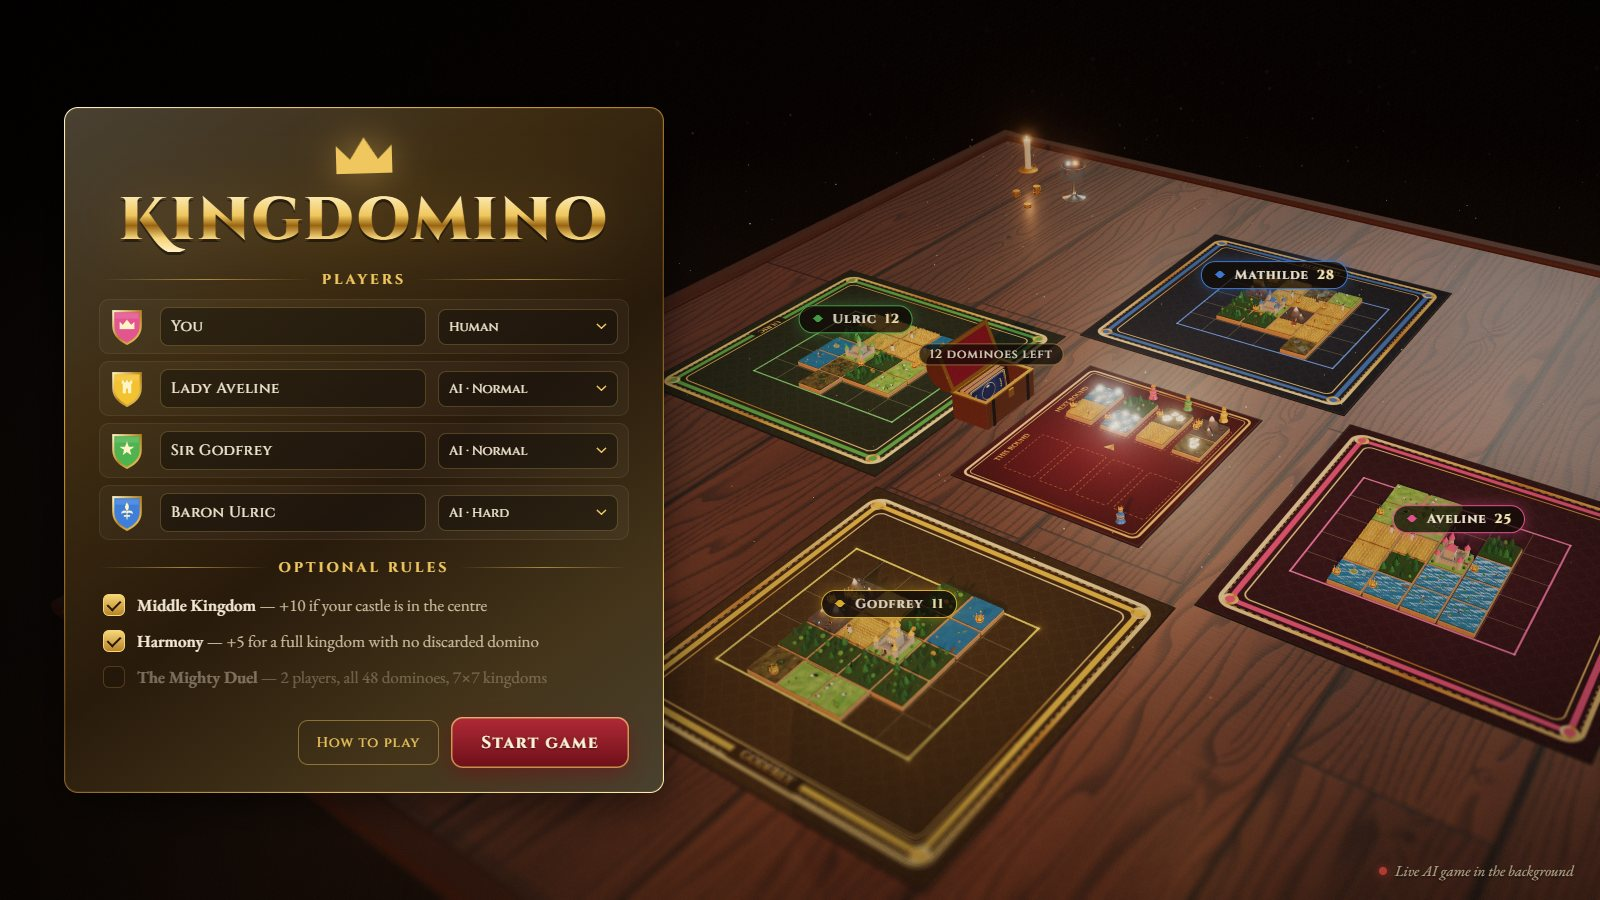
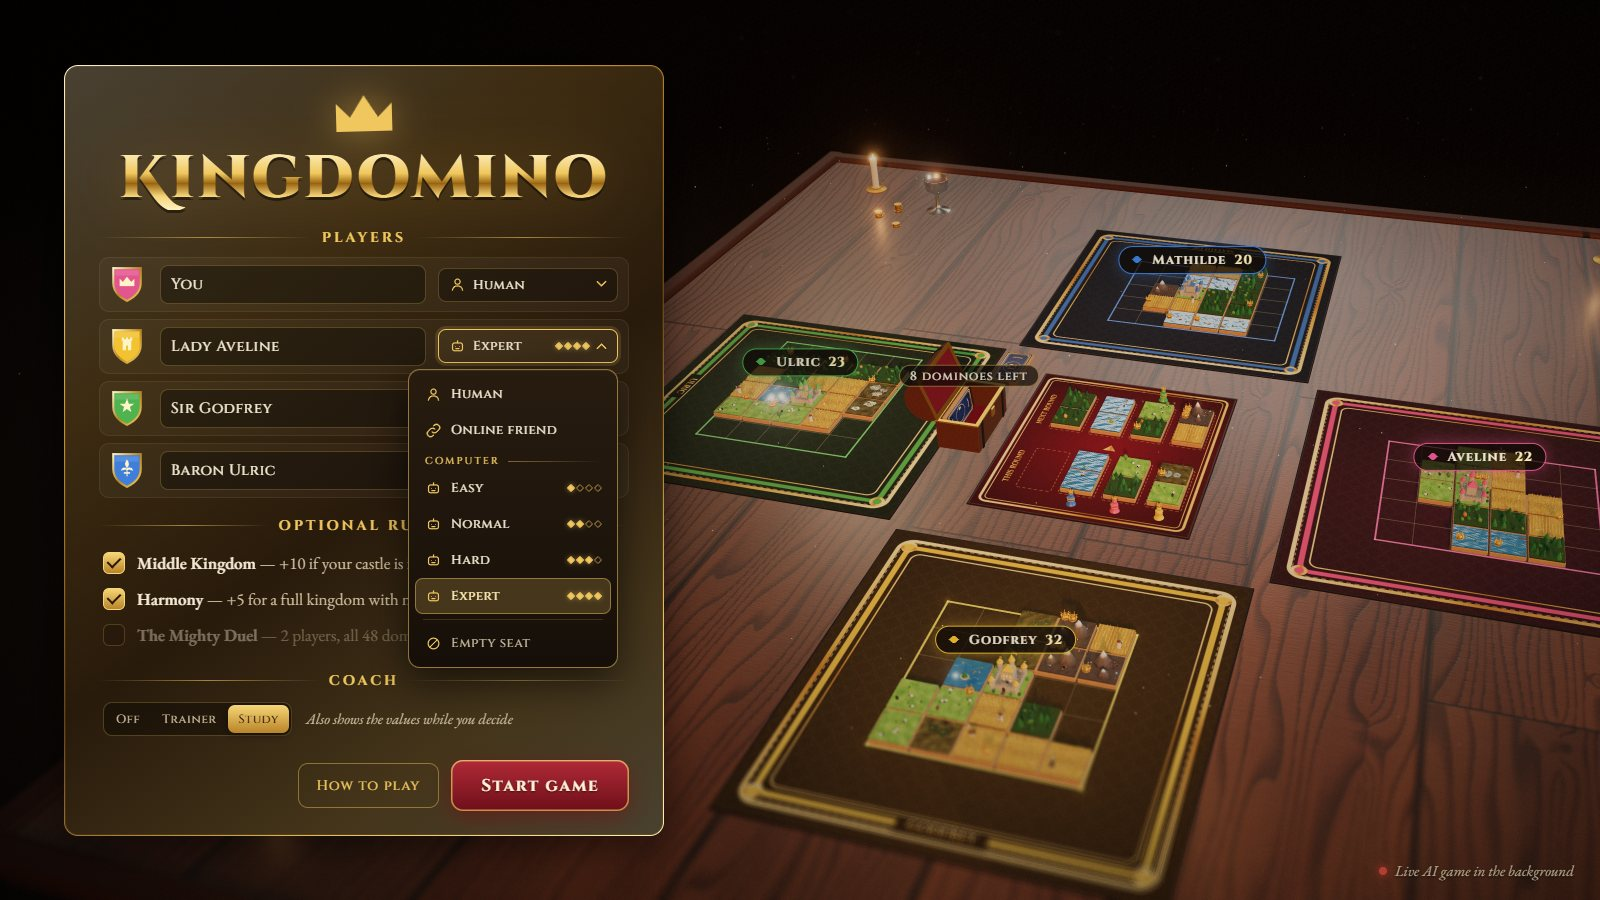
Put the Expert AI and the coach up front in the README and link previews
README:
- the tagline and badges now lead with the Expert AI and the coach
- a new section right under the intro, "Take on the Expert, learn from
  the coach", with four new screenshots: study mode's value pills and
  hover map, a grade badge with the Expert's choice flashing blue, the
  tinted legal squares while placing, and advice
- the menu screenshot shows the seat picker (Easy to Expert) and the coach
  switch; the results screenshot carries the coach's verdict
- The AI gets a diagram of one Expert simulation, and its benchmark table
  moves out of the bullet list

Site metadata: the page title, description, Open Graph and Twitter cards,
structured data (with a featureList), noscript text and manifest mention
the Expert and the coach; a new social image says so too; the sitemap
date moves to today. package.json's description follows.

diff --git a/index.html b/index.html
@@ -3,8 +3,8 @@
 <head>
   <meta charset="UTF-8" />
   <meta name="viewport" content="width=device-width, initial-scale=1.0, maximum-scale=1.0, viewport-fit=cover, interactive-widget=resizes-visual" />
-  <title>Kingdomino 3D · Free online board game, vs AI or friends</title>
-  <meta name="description" content="Play Kingdomino in 3D, free in your browser: build a kingdom from 48 diorama dominoes against the AI or with friends online. No download, no sign-up." />
+  <title>Kingdomino 3D · Free board game vs an Expert AI or friends</title>
+  <meta name="description" content="Play the Kingdomino board game in 3D, free in your browser: against an Expert AI, with a coach that grades your moves, or with friends online. No sign-up." />
   <link rel="canonical" href="https://1amthis.github.io/kingdomino-3d/" />
   <meta name="robots" content="index, follow, max-image-preview:large" />
   <meta name="theme-color" content="#1c120c" />
@@ -13,19 +13,19 @@
   <!-- Link previews (Slack, Discord, WhatsApp, X, LinkedIn…) -->
   <meta property="og:type" content="website" />
   <meta property="og:site_name" content="Kingdomino 3D" />
-  <meta property="og:title" content="Kingdomino 3D · Play free in your browser" />
-  <meta property="og:description" content="Build your kingdom from 48 hand-carved diorama dominoes on a candle-lit table. Play against the AI or invite friends with a link. No download, no sign-up." />
+  <meta property="og:title" content="Kingdomino 3D · Play free vs an Expert AI or friends" />
+  <meta property="og:description" content="Build your kingdom from 48 hand-carved diorama dominoes on a candle-lit table. Take on an Expert AI that plays thousands of games ahead, learn from a coach that grades every move, or invite friends with a link. No download, no sign-up." />
   <meta property="og:url" content="https://1amthis.github.io/kingdomino-3d/" />
   <meta property="og:image" content="https://1amthis.github.io/kingdomino-3d/og-image.jpg" />
   <meta property="og:image:width" content="1280" />
   <meta property="og:image:height" content="640" />
-  <meta property="og:image:alt" content="Kingdomino 3D: miniature diorama kingdoms on a wooden table at golden hour" />
+  <meta property="og:image:alt" content="Kingdomino 3D: a miniature diorama kingdom on a candle-lit table. Play free against an Expert AI, with a coach, or online with friends" />
   <meta property="og:locale" content="en_GB" />
   <meta name="twitter:card" content="summary_large_image" />
-  <meta name="twitter:title" content="Kingdomino 3D · Play free in your browser" />
-  <meta name="twitter:description" content="Build your kingdom from 48 hand-carved diorama dominoes. Play against the AI or invite friends with a link." />
+  <meta name="twitter:title" content="Kingdomino 3D · Play free vs an Expert AI or friends" />
+  <meta name="twitter:description" content="Build your kingdom from 48 diorama dominoes. Take on an Expert AI, learn from a coach that grades every move, or invite friends with a link." />
   <meta name="twitter:image" content="https://1amthis.github.io/kingdomino-3d/og-image.jpg" />
-  <meta name="twitter:image:alt" content="Kingdomino 3D: miniature diorama kingdoms on a wooden table at golden hour" />
+  <meta name="twitter:image:alt" content="Kingdomino 3D: a miniature diorama kingdom on a candle-lit table. Play free against an Expert AI, with a coach, or online with friends" />
 
   <!-- Icons: browser tab, search results, phone home screen -->
   <link rel="icon" href="/favicon.svg" type="image/svg+xml" />
@@ -41,9 +41,17 @@
     "name": "Kingdomino 3D",
     "alternateName": "Kingdomino online",
     "url": "https://1amthis.github.io/kingdomino-3d/",
-    "description": "A 3D browser adaptation of the Kingdomino tile-laying board game, with procedural diorama dominoes, AI opponents and peer-to-peer online play.",
+    "description": "A 3D browser adaptation of the Kingdomino tile-laying board game, with procedural diorama dominoes, four levels of AI up to a Monte-Carlo tree search Expert, a coach that grades every move, and peer-to-peer online play.",
     "image": "https://1amthis.github.io/kingdomino-3d/og-image.jpg",
     "genre": ["Board game", "Strategy", "Tile-laying"],
+    "featureList": [
+      "Expert AI: determinized Monte-Carlo tree search in a Web Worker",
+      "Easy, Normal and Hard AI levels",
+      "Coach: every move graded from Best to Blunder, advice on request, a study mode that shows each move's value",
+      "Peer-to-peer online play with an invite link",
+      "48 procedural 3D diorama dominoes, day, golden hour and night",
+      "Optional Middle Kingdom, Harmony and Mighty Duel rules"
+    ],
     "gamePlatform": "Web browser",
     "applicationCategory": "GameApplication",
     "operatingSystem": "Any (WebGL 2 browser)",
@@ -75,7 +83,7 @@
       <div class="loading-bar"><div id="loading-fill"></div></div>
       <div id="loading-text">Loading…</div>
       <noscript>
-        <p class="noscript">Kingdomino 3D is a free browser version of the Kingdomino tile-laying board game: claim dominoes with your king, connect matching terrains and multiply each property by its crowns. Play against the AI or with up to three friends online.</p>
+        <p class="noscript">Kingdomino 3D is a free browser version of the Kingdomino tile-laying board game: claim dominoes with your king, connect matching terrains and multiply each property by its crowns. Play against four levels of AI, up to an Expert that plays out thousands of games before each move, turn on a coach that grades every move from Best to Blunder, or play with up to three friends online.</p>
         <p class="noscript"><b>It needs JavaScript and a WebGL 2 browser.</b></p>
       </noscript>
     </div>

diff --git a/README.md b/README.md
@@ -2,21 +2,56 @@
 
 # Kingdomino 3D
 
-**The Kingdomino board game on a candle-lit 3D table. Play it free in your browser, against the AI or with friends.**
+**The Kingdomino board game on a candle-lit 3D table. Play it free in your browser: against an Expert AI that plays
+out thousands of games before each move, with a coach that grades yours, or with friends online.**
 
 [![Play now, free in your browser](https://img.shields.io/badge/%E2%96%B6%20Play%20now-free%20in%20your%20browser-b3263a?style=for-the-badge)](https://1amthis.github.io/kingdomino-3d/)
 
 [![Deploy](https://github.com/1amthis/kingdomino-3d/actions/workflows/deploy.yml/badge.svg)](https://github.com/1amthis/kingdomino-3d/actions/workflows/deploy.yml)
+[![Expert AI: Monte-Carlo tree search](https://img.shields.io/badge/Expert%20AI-Monte--Carlo%20tree%20search-1f7a8c)](#the-ai)
+[![Coach: every move graded](https://img.shields.io/badge/coach-every%20move%20graded-3f8f4f)](#the-coach)
+[![Online play](https://img.shields.io/badge/online%20play-peer--to--peer%2C%20no%20server-2f6f3e)](#playing-with-friends-online)
 [![Three.js](https://img.shields.io/badge/Three.js-r186-000000?logo=threedotjs&logoColor=white)](https://threejs.org)
 [![Vite](https://img.shields.io/badge/Vite-8-646CFF?logo=vite&logoColor=white)](https://vite.dev)
-[![Online play](https://img.shields.io/badge/online%20play-peer--to--peer%2C%20no%20server-2f6f3e)](#playing-with-friends-online)
 
 <img src="docs/screenshots/gameplay.webp" width="100%" alt="A round of Kingdomino 3D: new dominoes are dealt face down and flip over on the drafting board, then each lord places theirs in their kingdom" />
 
 </div>
 
-Procedural miniature dioramas on every tile, a candle-lit table, animated critters, a generative lute soundtrack and a
-full rules engine with AI opponents, all running in the browser with no download and no sign-up.
+Procedural miniature dioramas on every tile, a candle-lit table, animated critters, a generative lute soundtrack, a
+full rules engine and four levels of AI, all running in the browser with no download and no sign-up.
+
+## Take on the Expert, learn from the coach
+
+<table>
+  <tr>
+    <td width="50%"><img src="docs/screenshots/coach-study.jpg" alt="Study mode on the drafting board: a value pill beside each domino (Best, −12.9, −15.9) and a map of where the hovered domino scores most now and where the Expert would lay it" /></td>
+    <td width="50%"><img src="docs/screenshots/coach-grade.jpg" alt="A grade badge popping up over the move just played, while the Expert's choice flashes blue" /></td>
+  </tr>
+  <tr>
+    <td><b>Study mode.</b> Every draft domino carries what it gives up against the Expert's pick. Hover one to see where it scores most right now (gold) and where the Expert would lay it (blue).</td>
+    <td><b>Every move graded</b>, from Best to Blunder, by the points of final lead it gives up. After a poor move, the Expert's choice flashes blue.</td>
+  </tr>
+  <tr>
+    <td><img src="docs/screenshots/coach-place.jpg" alt="Placing in study mode: the legal squares tinted from green to red, the ghost domino showing +7 and Best" /></td>
+    <td><img src="docs/screenshots/coach-advice.jpg" alt="Advice: the domino the Expert would pick glows blue with an Expert tag" /></td>
+  </tr>
+  <tr>
+    <td><b>Where to lay it.</b> The legal squares are tinted from green to red, and the ghost domino shows what its spot is worth.</td>
+    <td><b>Stuck? Ask.</b> Advice (<kbd>A</kbd>) shows the Expert's move: its pick glows blue, or the ghost domino slides to its spot.</td>
+  </tr>
+</table>
+
+- **Expert** plans ahead with a Monte-Carlo tree search in a Web Worker: before each move it plays out thousands of
+  games, each with the unseen dominoes dealt afresh, and keeps the move that held up best. Against the Hard AI it wins
+  83 two-player games in 100, and all 40 Mighty Duels ([how it works](#the-ai)).
+- **The coach** is the same search pointed at your position. **Trainer** grades each of your moves; **Study** also
+  shows what every option is worth while you decide. At the end, the results card gives its verdict: points lost per
+  move and how your grades split ([more](#the-coach)).
+- Set a seat to **Expert** and the coach to **Trainer** or **Study** in the menu. For fair play, the coach turns itself
+  off whenever more than one person plays.
+
+## What's on the table
 
 <table>
   <tr>
@@ -36,12 +71,12 @@ full rules engine with AI opponents, all running in the browser with no download
     <td><b>The reckoning.</b> The camera visits each kingdom and counts every property, squares &times; crowns.</td>
   </tr>
   <tr>
-    <td><img src="docs/screenshots/menu.jpg" alt="The main menu over a live AI-vs-AI game" /></td>
-    <td><img src="docs/screenshots/results.jpg" alt="The final scores card with each property and bonus" /></td>
+    <td><img src="docs/screenshots/menu.jpg" alt="The main menu over a live AI-vs-AI game, with the seat picker open on the computer's four levels and the coach set to Study" /></td>
+    <td><img src="docs/screenshots/results.jpg" alt="The final scores card with each property and bonus, and the coach's verdict" /></td>
   </tr>
   <tr>
-    <td><b>2 to 4 players</b>, any mix of humans (same device or online) and AI at four levels. The menu plays a live AI game behind it.</td>
-    <td><b>Final scores</b> with every property, the Middle Kingdom and Harmony bonuses, and the official tie-breakers.</td>
+    <td><b>2 to 4 players</b>, any mix of humans (same device or online) and AI at four levels, from Easy to Expert. The menu plays a live AI game behind it.</td>
+    <td><b>Final scores</b> with every property, the Middle Kingdom and Harmony bonuses and the official tie-breakers, plus the coach's verdict.</td>
   </tr>
 </table>
 
@@ -54,8 +89,6 @@ full rules engine with AI opponents, all running in the browser with no download
   <br />
   <sub>Made for phones too: tap to pick, tap twice to place, pinch to zoom.</sub>
 </p>
-
-## What's on the table
 
 - **All 48 official dominoes** with correct terrains and crowns, each carved as a unique diorama.
   - Wheat fields with swaying stalks, windmills with turning sails, cottages with chimney smoke, haystacks, scarecrows
@@ -93,22 +126,35 @@ full rules engine with AI opponents, all running in the browser with no download
 - **Expert** searches. It runs a determinized Monte-Carlo tree search in a Web Worker, so the table keeps animating
   while it thinks: every simulation deals the unseen dominoes afresh, then plays the game out to the end. A few thousand
   simulations per move take a fraction of a second.
-- Expert against Hard, on paired deals (each deal played from both seats), 2,000 simulations per move:
 
-  | Game | Expert's record | Average lead |
-  | --- | --- | --- |
-  | 2 players | 83 wins, 17 losses | +10.2 points |
-  | 2 players, Middle Kingdom + Harmony | 81 wins, 19 losses | +12.4 points |
-  | Mighty Duel (7×7) | 40 wins, 0 losses | +27.6 points |
-  | 4 players (Expert and 3 Hard) | 24 wins in 40 games | +1.2 points over the best Hard |
+```mermaid
+flowchart LR
+    pos(["The position<br/>on the table"]) --> deal
+    subgraph sim ["One simulation, up to 3,000 per move (1.5 s at most)"]
+        direction LR
+        deal["Deal the unseen<br/>dominoes afresh"] --> walk["Walk down the tree:<br/>moves that did well,<br/>or were tried little"]
+        walk --> out["Play the game out<br/>with a quick heuristic"]
+        out --> back["Score it: win or loss<br/>and margin, credited to<br/>each move on the way"]
+    end
+    back --> move(["Play the move<br/>tried most often"])
+```
 
-  `npm run bench` replays these (`--games`, `--players`, `--vs easy|normal|hard`, `--sims`, `--middle`, `--harmony`,
-  `--duel`), and `npm test` checks the search engine against the rules engine, placement for placement and score for score.
+Expert against Hard, on paired deals (each deal played from both seats), 2,000 simulations per move:
+
+| Game | Expert's record | Average lead |
+| --- | --- | --- |
+| 2 players | 83 wins, 17 losses | +10.2 points |
+| 2 players, Middle Kingdom + Harmony | 81 wins, 19 losses | +12.4 points |
+| Mighty Duel (7×7) | 40 wins, 0 losses | +27.6 points |
+| 4 players (Expert and 3 Hard) | 24 wins in 40 games | +1.2 points over the best Hard |
+
+`npm run bench` replays these (`--games`, `--players`, `--vs easy|normal|hard`, `--sims`, `--middle`, `--harmony`,
+`--duel`), and `npm test` checks the search engine against the rules engine, placement for placement and score for score.
 
 ### The coach
 
 Pick it in the main menu (or in Settings during a game). While you decide, the Expert quietly analyses your position
-in a worker of its own, trying every legal move. For fair play the coach locks itself off whenever more than one
+in a worker of its own: the same search, up to 8,000 simulations, with at least 24 for every legal move. For fair play the coach locks itself off whenever more than one
 person is at the table, on the same screen or online.
 
 - **Trainer**: once you move, a badge pops up on it, from **Best** through Excellent, Good, Inaccuracy and Mistake to
